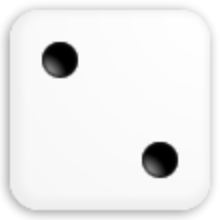
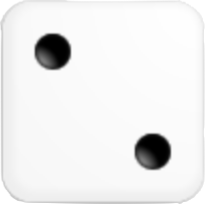
dice roll/UI layout

diff --git a/src/FrontEnd/Screens/TestingScreen.java b/src/FrontEnd/Screens/TestingScreen.java
@@ -11,11 +11,14 @@ import BackEnd.Tile.GoTile;
 import BackEnd.Tile.PropertyTiles.AbstractPropertyTile;
 import BackEnd.Tile.TileInterface;
 import FrontEnd.BoardView;
+import javafx.collections.ObservableList;
 import javafx.event.ActionEvent;
 import javafx.event.EventHandler;
 import javafx.geometry.HPos;
 import javafx.geometry.Insets;
 import javafx.geometry.Pos;
+import javafx.scene.Node;
+import javafx.scene.Parent;
 import javafx.scene.Scene;
 import javafx.scene.control.Alert;
 import javafx.scene.control.Button;
@@ -69,7 +72,8 @@ public class TestingScreen extends AbstractScreen {
     @Override
     public void makeScreen() {
         BorderPane bPane = new BorderPane();
-        GridPane form = new GridPane();
+        VBox form = new VBox();
+        form.setSpacing(10);
 
         ImageView backgroundImg = new ImageView(new Image(this.getClass().getClassLoader().getResourceAsStream("background.jpg")));
         backgroundImg.setFitWidth(screenWidth);
@@ -79,37 +83,44 @@ public class TestingScreen extends AbstractScreen {
 
         Label headerLabel = new Label("Enter Player Information: ");
         headerLabel.setFont(Font.font("Arial", FontWeight.BOLD, 24));
-        form.add(headerLabel, 0,0,2,1);
-        GridPane.setHalignment(headerLabel, HPos.CENTER);
-        GridPane.setMargin(headerLabel, new Insets(20, 0,20,0));
 
         Label p1Name = new Label("Player 1 Name: ");
-        form.add(p1Name, 0, 1);
         TextField p1Field = new TextField();
-        p1Field.setPrefHeight(40);
-        form.add(p1Field, 1,1);
+        p1Field.setPrefHeight(30);
+        p1Field.setMaxWidth(200);
 
         Label p2Name = new Label("Player 2 Name: ");
-        form.add(p2Name, 0, 2);
         TextField p2Field = new TextField();
-        p2Field.setPrefHeight(40);
-        form.add(p2Field, 1,2);
+        p2Field.setPrefHeight(30);
+        p2Field.setMaxWidth(200);
 
         Label p3Name = new Label("Player 3 Name: ");
-        form.add(p3Name, 0, 3);
         TextField p3Field = new TextField();
-        p3Field.setPrefHeight(40);
-        form.add(p3Field, 1,3);
+        p3Field.setPrefHeight(30);
+        p3Field.setMaxWidth(200);
 
         Label p4Name = new Label("Player 4 Name: ");
-        form.add(p4Name, 0, 4);
         TextField p4Field = new TextField();
-        p4Field.setPrefHeight(40);
-        form.add(p4Field, 1,4);
+        p4Field.setPrefHeight(30);
+        p4Field.setMaxWidth(200);
 
         Button startGameButton = new Button("START GAME");
-        startGameButton.setPrefHeight(40);
-        startGameButton.setPrefWidth(200);
+        startGameButton.setPrefHeight(20);
+        startGameButton.setPrefWidth(150);
+
+        form.getChildren().addAll(
+                headerLabel,
+                p1Name, p1Field,
+                p2Name, p2Field,
+                p3Name, p3Field,
+                p4Name, p4Field,
+                startGameButton
+        );
+
+        form.setStyle("-fx-background-color: #FFFFFF;");
+        form.setMaxSize(screenWidth, 400);
+        form.setPadding(new Insets(30, 0, 0, 30));
+
         List<TextField> playerFields = new ArrayList<>();
         playerFields.add(p1Field);
         playerFields.add(p2Field);
@@ -127,9 +138,7 @@ public class TestingScreen extends AbstractScreen {
         backToMainButton.setOnAction(f -> handleBackToMainButton(getMyStage()));
 
         bPane.setAlignment(form, Pos.CENTER);
-        bPane.setTop(form);
-        bPane.setAlignment(startGameButton, Pos.CENTER);
-        bPane.setCenter(startGameButton);
+        bPane.setCenter(form);
         bPane.setAlignment(backToMainButton, Pos.CENTER);
         bPane.setBottom(backToMainButton);
 
@@ -154,29 +163,48 @@ public class TestingScreen extends AbstractScreen {
 
         BorderPane bPane = (BorderPane) testScene.getRoot();
 
-        StackPane boardStackModal = new StackPane();
+        StackPane boardStackPane = new StackPane();
 
-        TilePane playerOptionsModal = new TilePane();
+//        TilePane playerOptionsModal= new TilePane();
+        VBox playerOptionsModal = new VBox();
+         playerOptionsModal.setSpacing(10);
 //        playerOptionsModal.getChildren().add(ROLL_BUTTON);
+
+        HBox diceLayout = new HBox();
+        diceLayout.setSpacing(5);
+        diceLayout.setUserData("diceLayout");
 
         ImageView dice1 = new ImageView();
         dice1.setImage(new Image(this
                 .getClass()
                 .getClassLoader()
                 .getResourceAsStream(
-                        "dice" + new Random().nextInt() + ".png"
+                        "dice" + (new Random().nextInt(myGame.getMyDice().getNumStates()) + 1) + ".png"
                 )
         ));
+        dice1.setFitHeight(30);
+        dice1.setFitWidth(30);
 
         ImageView dice2 = new ImageView();
-        dice2.setImage(new Image(this.getClass().getClassLoader().getResourceAsStream("dice1.png")));
+        dice2.setImage(new Image(this
+                .getClass()
+                .getClassLoader()
+                .getResourceAsStream(
+                        "dice" + (new Random().nextInt(myGame.getMyDice().getNumStates()) + 1) + ".png"
+                )
+        ));
+        dice2.setFitHeight(30);
+        dice2.setFitWidth(30);
 
-        playerOptionsModal.getChildren().addAll(ROLL_BUTTON, dice1, dice2);
+        diceLayout.getChildren().addAll(dice1, dice2);
 
-        boardStackModal.getChildren().addAll(myBoardView.getBoardPane(), ROLL_BUTTON, playerOptionsModal);
+        // playerOptionsModal.getChildren().addAll(ROLL_BUTTON, dice1, dice2);
+        playerOptionsModal.getChildren().addAll(diceLayout, ROLL_BUTTON);
 
-        bPane.setCenter(null); // gets rid of startGameButton
-        bPane.setTop(boardStackModal);
+        boardStackPane.getChildren().addAll(myBoardView.getBoardPane(), playerOptionsModal);
+
+        bPane.setTop(null);
+        bPane.setCenter(boardStackPane);
 
         ROLL_BUTTON.setOnAction(f -> myGame.handleRollButton());
     }
@@ -216,4 +244,31 @@ public class TestingScreen extends AbstractScreen {
     public Scene getTestScene() {
         return testScene;
     }
+
+//    public void updateDiceView(int[] rolls) {
+//        BorderPane bPane = (BorderPane) testScene.getRoot();
+//        StackPane boardStackPane = (StackPane) bPane.getCenter();
+////        VBox playerOptionsModal = (VBox) boardStackPa
+//        ObservableList vList = boardStackPane.getChildren();
+//
+//
+//        System.out.println(boardStackPane);
+//
+//        // get children (i.e. the two die) of inner HBox in form of ImageView list
+//        ObservableList diceViews = boardStackPane.getChildren();
+//
+//        for (Object i : diceViews) {
+//            System.out.println(i);
+//        }
+//    }
+
+//    private Node getByUserData(Parent parent, Object data) {
+//        for (Node n : parent.getChildren()) {
+//            if (data.equals(n.getUserData())) {
+//                return n;
+//            }
+//        }
+//        return null;
+//    }
+
 }

diff --git a/src/Controller/Game.java b/src/Controller/Game.java
@@ -25,10 +25,10 @@ public class Game {
     private AbstractBoard myBoard;
     private List<AbstractPlayer> myPlayers;
     private Turn myTurn;
-    private AbstractScreen myTestScreen;
+    private TestingScreen myTestScreen;
     //private Bank bank;
 
-    public Game(AbstractScreen view, AbstractDice dice, DeckInterface chanceDeck, DeckInterface chestDeck, AbstractBoard board) {
+    public Game(TestingScreen view, AbstractDice dice, DeckInterface chanceDeck, DeckInterface chestDeck, AbstractBoard board) {
         this.myDice = dice;
         this.chanceDeck = chanceDeck;
         this.chestDeck = chestDeck;
@@ -51,6 +51,8 @@ public class Game {
     public void handleRollButton() {
         int[] rolls = myTurn.rollDice(2);
 
+//        myTestScreen.updateDiceView(rolls);
+
 //        BorderPane bPane = (BorderPane) myTestScreen.getMyScene().getRoot();
 
         Text diceText = new Text("You rolled a " + rolls[0] + " and a " + rolls[1] + "! " +
@@ -68,4 +70,5 @@ public class Game {
     public AbstractBoard getBoard() {
         return myBoard;
     }
+    public AbstractDice getMyDice() { return myDice; }
 }

diff --git a/src/BackEnd/Dice/AbstractDice.java b/src/BackEnd/Dice/AbstractDice.java
@@ -23,4 +23,6 @@ public abstract class AbstractDice {
     public int roll() {
         return new Random().nextInt(numStates) + 1;
     }
+
+    public int getNumStates() { return numStates; }
 }
